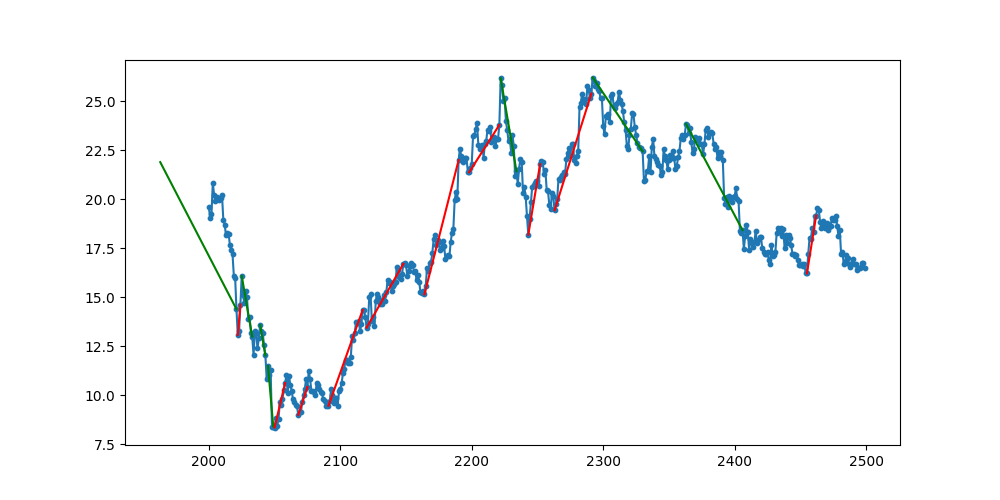
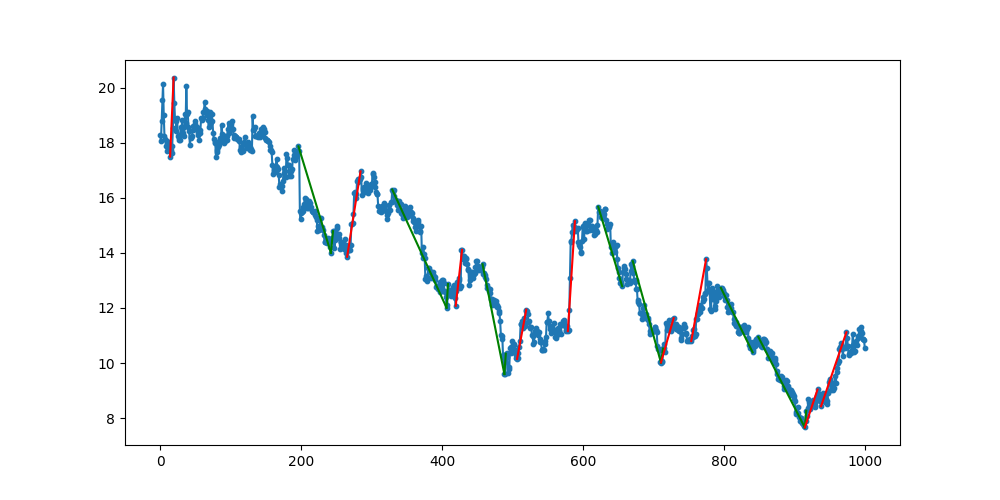
labeling done

diff --git a/vnpy/chart/item.py b/vnpy/chart/item.py
@@ -1,6 +1,7 @@
 from abc import abstractmethod
 from typing import List, Dict, Tuple
 from collections import deque
+import numpy as np
 
 import pyqtgraph as pg
 
@@ -9,8 +10,9 @@ from vnpy.trader.object import BarData
 
 from .base import BLACK_COLOR, UP_COLOR, DOWN_COLOR, PEN_WIDTH, BAR_WIDTH
 from .manager import BarManager
+import alg
 
-
+# 000001.SZSE
 class ChartItem(pg.GraphicsObject):
     """"""
 
@@ -211,6 +213,104 @@ class MAItem(ChartItem):
         return min_price, max_price
 
 
+class WaveItem(ChartItem):
+    """"""
+
+    def __init__(self, manager: BarManager, T1=0.2, T2=0.08):
+        """"""
+        super().__init__(manager)
+        self.T1 = T1
+        self.T2 = T2
+
+    def _draw_bar_picture(self, ix: int, bar: BarData) -> QtGui.QPicture:
+        """"""
+        # Create objects
+        line = QtGui.QPicture()
+        painter = QtGui.QPainter(line)
+        N = len(self._manager._bars)
+
+        v = np.array([b.close_price for b in self._manager.get_all_bars()])
+        self.waves = alg.get_waves(v, self.T1, self.T2)
+        for x1, y1, x2, y2, t in self.waves:
+            if t == 0:
+                continue
+            if t == 1:
+                # Set painter color
+                painter.setPen(self._up_pen)
+                painter.setBrush(self._black_brush)
+            if t == -1:
+                painter.setPen(self._down_pen)
+                painter.setBrush(self._down_brush)
+            painter.drawLine(
+                QtCore.QPointF(x1, y1),
+                QtCore.QPointF(x2, y2))
+
+        # Finish
+        painter.end()
+        return line
+
+    def boundingRect(self) -> QtCore.QRectF:
+        """"""
+        min_price, max_price = self._manager.get_price_range()
+        rect = QtCore.QRectF(
+            0,
+            min_price,
+            len(self._bar_picutures),
+            max_price - min_price
+        )
+        return rect
+
+    def get_y_range(self, min_ix: int = None, max_ix: int = None) -> Tuple[float, float]:
+        """
+        Get range of y-axis with given x-axis range.
+
+        If min_ix and max_ix not specified, then return range with whole data set.
+        """
+        min_price, max_price = self._manager.get_price_range(min_ix, max_ix)
+        return min_price, max_price
+
+    def get_info_text(self, ix: int) -> str:
+        """
+        Get information text to show by cursor.
+        """
+        bar = self._manager.get_bar(ix)
+        for i, (x1, y1, x2, y2, t) in enumerate(self.waves):
+            if x1 <= ix and ix <= x2:
+                bar_st = self._manager.get_bar(x1)
+                bar_ed = self._manager.get_bar(x2)
+                st_time = bar_st.datetime.strftime("%Y-%m-%d")
+                ed_time = bar_ed.datetime.strftime("%Y-%m-%d")
+                words = [
+                    f"Wave {i}: {bar_st.close_price:.2f} -> {bar_ed.close_price:.2f}",
+                    f"Start {st_time}",
+                    f"End {ed_time}"]
+        if bar:
+            words = [
+                "Date",
+                bar.datetime.strftime("%Y-%m-%d"),
+                "",
+                "Time",
+                bar.datetime.strftime("%H:%M"),
+                "",
+                "Open",
+                f"{bar.open_price:.2f}",
+                "",
+                "High",
+                f"{bar.high_price:.2f}",
+                "",
+                "Low",
+                f"{bar.low_price:.2f}",
+                "",
+                "Close",
+                f"{bar.close_price:.2f}"
+            ]
+            text = "\n".join(words)
+        else:
+            text = ""
+
+        return text
+
+
 class CandleItem(ChartItem):
     """"""
 
@@ -380,6 +480,8 @@ class VolumeItem(ChartItem):
 
 
 def est_amount(bar):
+    if bar is None:
+        return 0
     return (bar.open_price + bar.close_price) / 2 * bar.volume * 100
 
 

diff --git a/script/plot_wave.py b/script/plot_wave.py
@@ -8,6 +8,8 @@ import matplotlib.pyplot as plt
 import numpy as np
 
 import utils
+from alg import get_waves
+
 
 os.chdir(path)
 bars = database_manager.load_bar_data_s(
@@ -19,69 +21,19 @@ WIN = 21 # in a month: 31 * 250 / 365
 df = utils.bars_to_df(bars)
 v = df['close_price']
 
-def get_waves(v, T1=0.2, T2=0.05, verbose=False):
-    waves = []
-    last_wave_idx = 0
-    wave_type = 0
-    lmax, lmin = v[0], v[0]
-    lmaxi, lmini = 0, 0
-
-    for i in range(1, v.shape[0]):
-        if lmax < v[i]:
-            lmax = v[i]
-            lmaxi = i
-        if lmin > v[i]:
-            lmin = v[i]
-            lmini = i
-        
-        if wave_type == 0 and v[i] > lmin * (1 + T1):
-            if verbose:
-                print(f"=> Start inc {lmin}({lmini}) -> {v[i]}({i})")
-            wave_type = 1
-            last_wave_idx = lmini
-            lmax = v[i]
-            lmaxi = i
-
-        elif wave_type == 0 and v[i] < lmax * (1 - T1):
-            if verbose:
-                print(f"=> Start dec {lmax}({lmaxi}) -> {v[i]}({i})")
-            wave_type = -1
-            last_wave_idx = lmaxi
-            lmin = v[i]
-            lmini = i
-
-        elif wave_type == 1 and v[i] < lmax * (1 - T2):
-            if verbose:
-                print(f"=> Inc -> Dec, wave {v[last_wave_idx]}({last_wave_idx}) ->{lmax}({lmaxi})")
-            waves.append([last_wave_idx, lmaxi - 1, wave_type])
-            last_wave_idx = lmaxi
-            wave_type = 0
-            lmin = v[i]
-            lmini = i
-
-        elif wave_type == -1 and v[i] > lmin * (1 + T2):
-            if verbose:
-                print(f"=> Dec -> Inc, wave {v[last_wave_idx]}({last_wave_idx}) ->{v[lmini - 1]}({lmini - 1})")
-            waves.append([last_wave_idx, lmini - 1, wave_type])
-            last_wave_idx = lmini
-            wave_type = 0
-            lmax = v[i]
-            lmaxi = i
-
-    waves.append([last_wave_idx, v.shape[0] - 1, wave_type])
-    return waves
-
-waves = get_waves(v)
-st, ed = 2000, 2500
+waves = get_waves(v, T1=0.15, T2=0.05, verbose=True)
+#print(waves)
+st, ed = 0, 1000
 fig = plt.figure(figsize=(10, 5))
 x = np.arange(0, v.shape[0])
 plt.scatter(
     x[st:ed],
     v[st:ed], s=10)
 plt.plot(x[st:ed], v[st:ed])
-for lidx, cidx, t in waves:
-    if cidx < st or lidx > ed or cidx > ed: continue
-    c = 'r' if t == 1 else 'g'
-    plt.plot([lidx, cidx], [v[lidx], v[cidx]], c)
+for x1, y1, x2, y2, t in waves:
+    if x2 < st or x1 > ed or x2 > ed: continue
+    if t == 0: continue
+    c = {0: 'blue', 1: 'red', -1: 'green'}[t]
+    plt.plot([x1, x2], [y1, y2], c)
 plt.savefig("res.png")
 plt.close()

diff --git a/alg.py b/alg.py
@@ -1,0 +1,65 @@
+import os
+
+            
+def get_waves(v, T1=0.2, T2=0.10, verbose=False):
+    waves = []
+    last_wave_idx = 0
+    wave_type = 0
+    lmax, lmin = v[0], v[0]
+    lmaxi, lmini = 0, 0
+    pinc_rate = 0
+    pdec_rate = 0
+
+    def _rec_wave(x1, y1, x2, y2, t):
+        waves.append([x1, y1, x2, y2, t])
+
+    for i in range(1, v.shape[0]):
+        if lmax < v[i]:
+            lmaxi, lmax = i, v[i]
+        if lmin > v[i]:
+            lmini, lmin = i, v[i]
+
+        inc_rate = v[i] / lmin - 1
+        dec_rate = 1 - v[i] / lmax
+
+        if inc_rate > T2 and pinc_rate < T2:
+            lmaxi, lmax = i, v[i]
+        if dec_rate > T2 and pdec_rate < T2:
+            lmini, lmin = i, v[i]
+            
+        if inc_rate > T1 and wave_type != 1:
+            if verbose:
+                print(f"=> Start inc {lmin:.2f}({lmini}) -> {v[i]:.2f}({i})")
+            _rec_wave(last_wave_idx, v[last_wave_idx],
+                        lmini, lmin, wave_type)
+            last_wave_idx = lmini
+            wave_type = 1
+        elif wave_type == -1 and inc_rate > T2:
+            if verbose:
+                print(f"=> dec -> null, {lmin:.2f}({lmini}) -> {v[i]:.2f}({i})")
+            _rec_wave(last_wave_idx, v[last_wave_idx],
+                        lmini, lmin, wave_type)
+            last_wave_idx = lmini
+            wave_type = 0
+
+        if dec_rate > T1 and wave_type != -1:
+            if verbose:
+                print(f"=> Start dec, {lmax:.2f}({lmaxi}) -> {v[i]:.2f}({i})")
+            _rec_wave(last_wave_idx, v[last_wave_idx],
+                        lmaxi, lmax, wave_type)
+            last_wave_idx = lmaxi
+            wave_type = -1
+        elif wave_type == 1 and dec_rate > T2:
+            if verbose:
+                print(f"=> inc -> null, {lmax:.2f}({lmaxi}) -> {v[i]:.2f}({i})")
+            # encode last wave
+            _rec_wave(last_wave_idx, v[last_wave_idx],
+                        lmaxi, lmax, wave_type)
+            last_wave_idx = lmaxi
+            wave_type = 0
+
+        pinc_rate = v[i] / lmin - 1
+        pdec_rate = 1 - v[i] / lmax
+
+    _rec_wave(last_wave_idx, v[last_wave_idx], v.shape[0] - 1, v[-1], wave_type)
+    return waves

diff --git a/vnpy/app/chart_wizard/ui/widget.py b/vnpy/app/chart_wizard/ui/widget.py
@@ -4,7 +4,7 @@ from datetime import datetime, timedelta
 from tzlocal import get_localzone
 
 from vnpy.event import EventEngine, Event
-from vnpy.chart import ChartWidget, CandleItem, VolumeItem, MAItem, EstAmountItem
+from vnpy.chart import *
 from vnpy.trader.engine import MainEngine
 from vnpy.trader.ui import QtWidgets, QtCore
 from vnpy.trader.event import EVENT_TICK
@@ -62,7 +62,7 @@ class ChartWizardWidget(QtWidgets.QWidget):
         chart.add_plot("candle", hide_x_axis=True)
         chart.add_plot("amount", maximum_height=200)
         chart.add_item(CandleItem, "candle", "candle")
-        chart.add_item(MAItem, "MA5", "candle", N=5)
+        chart.add_item(WaveItem, "wave", "candle")
         chart.add_item(EstAmountItem, "amount", "amount")
         chart.add_cursor()
         return chart
@@ -87,7 +87,7 @@ class ChartWizardWidget(QtWidgets.QWidget):
 
         # Query history data
         end = datetime.now(get_localzone())
-        start = end - timedelta(days=250)
+        start = end - timedelta(days=1000)
 
         self.chart_engine.query_history(
             vt_symbol,

diff --git a/vnpy/chart/__init__.py b/vnpy/chart/__init__.py
@@ -1,2 +1,2 @@
 from .widget import ChartWidget
-from .item import CandleItem, VolumeItem, MAItem, EstAmountItem
+from .item import CandleItem, VolumeItem, MAItem, EstAmountItem, WaveItem
